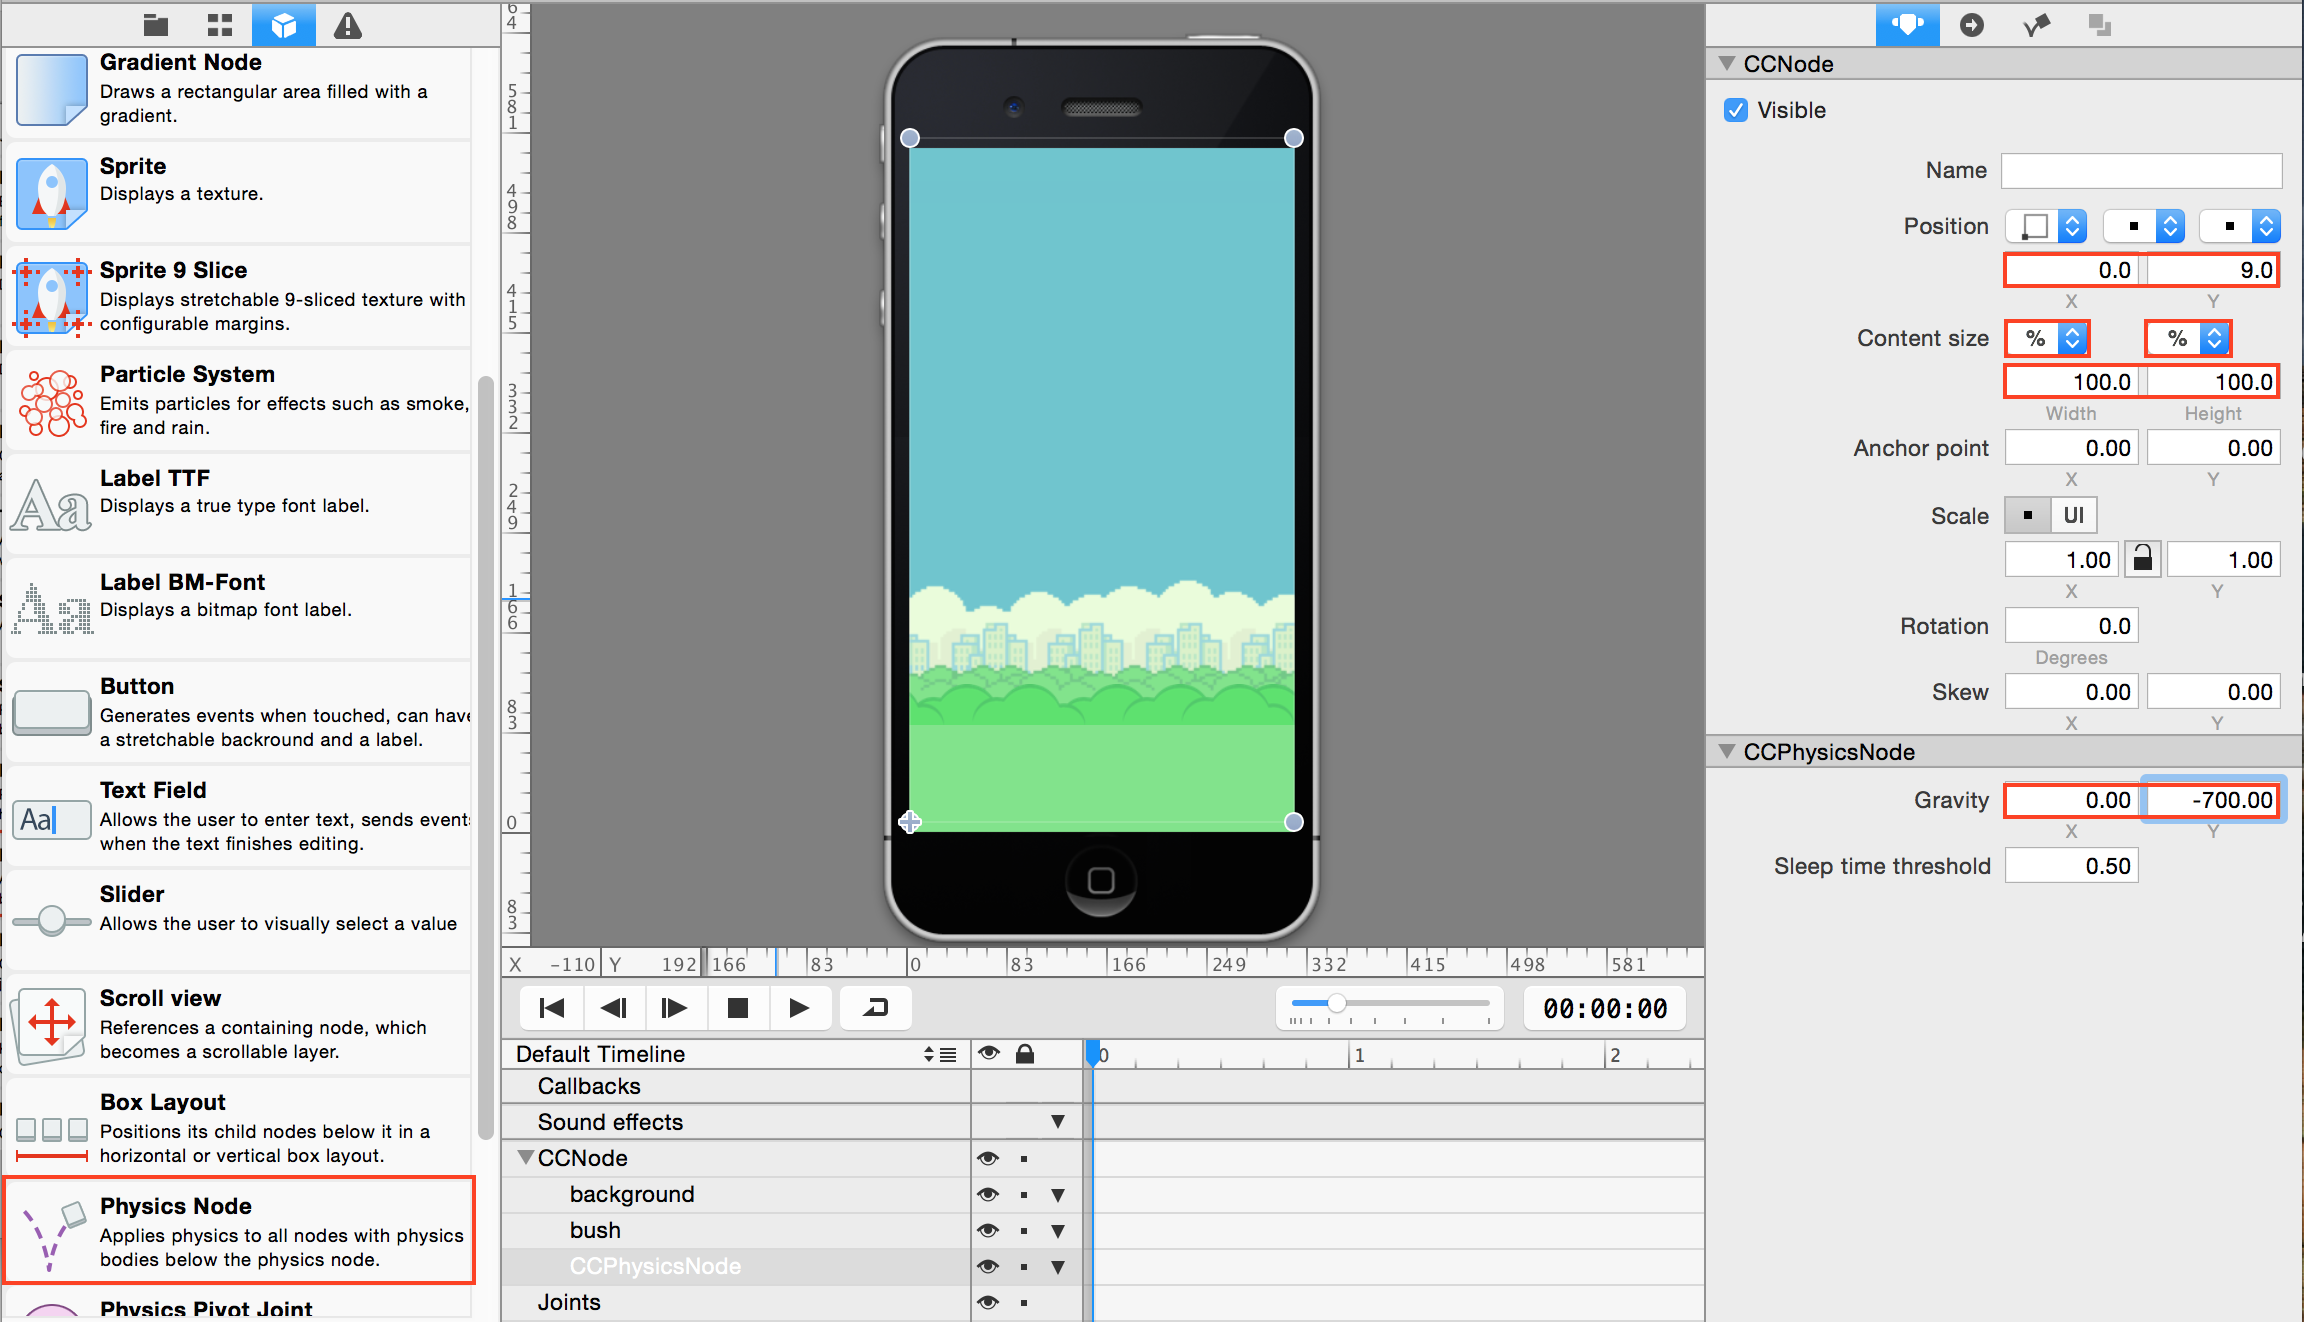
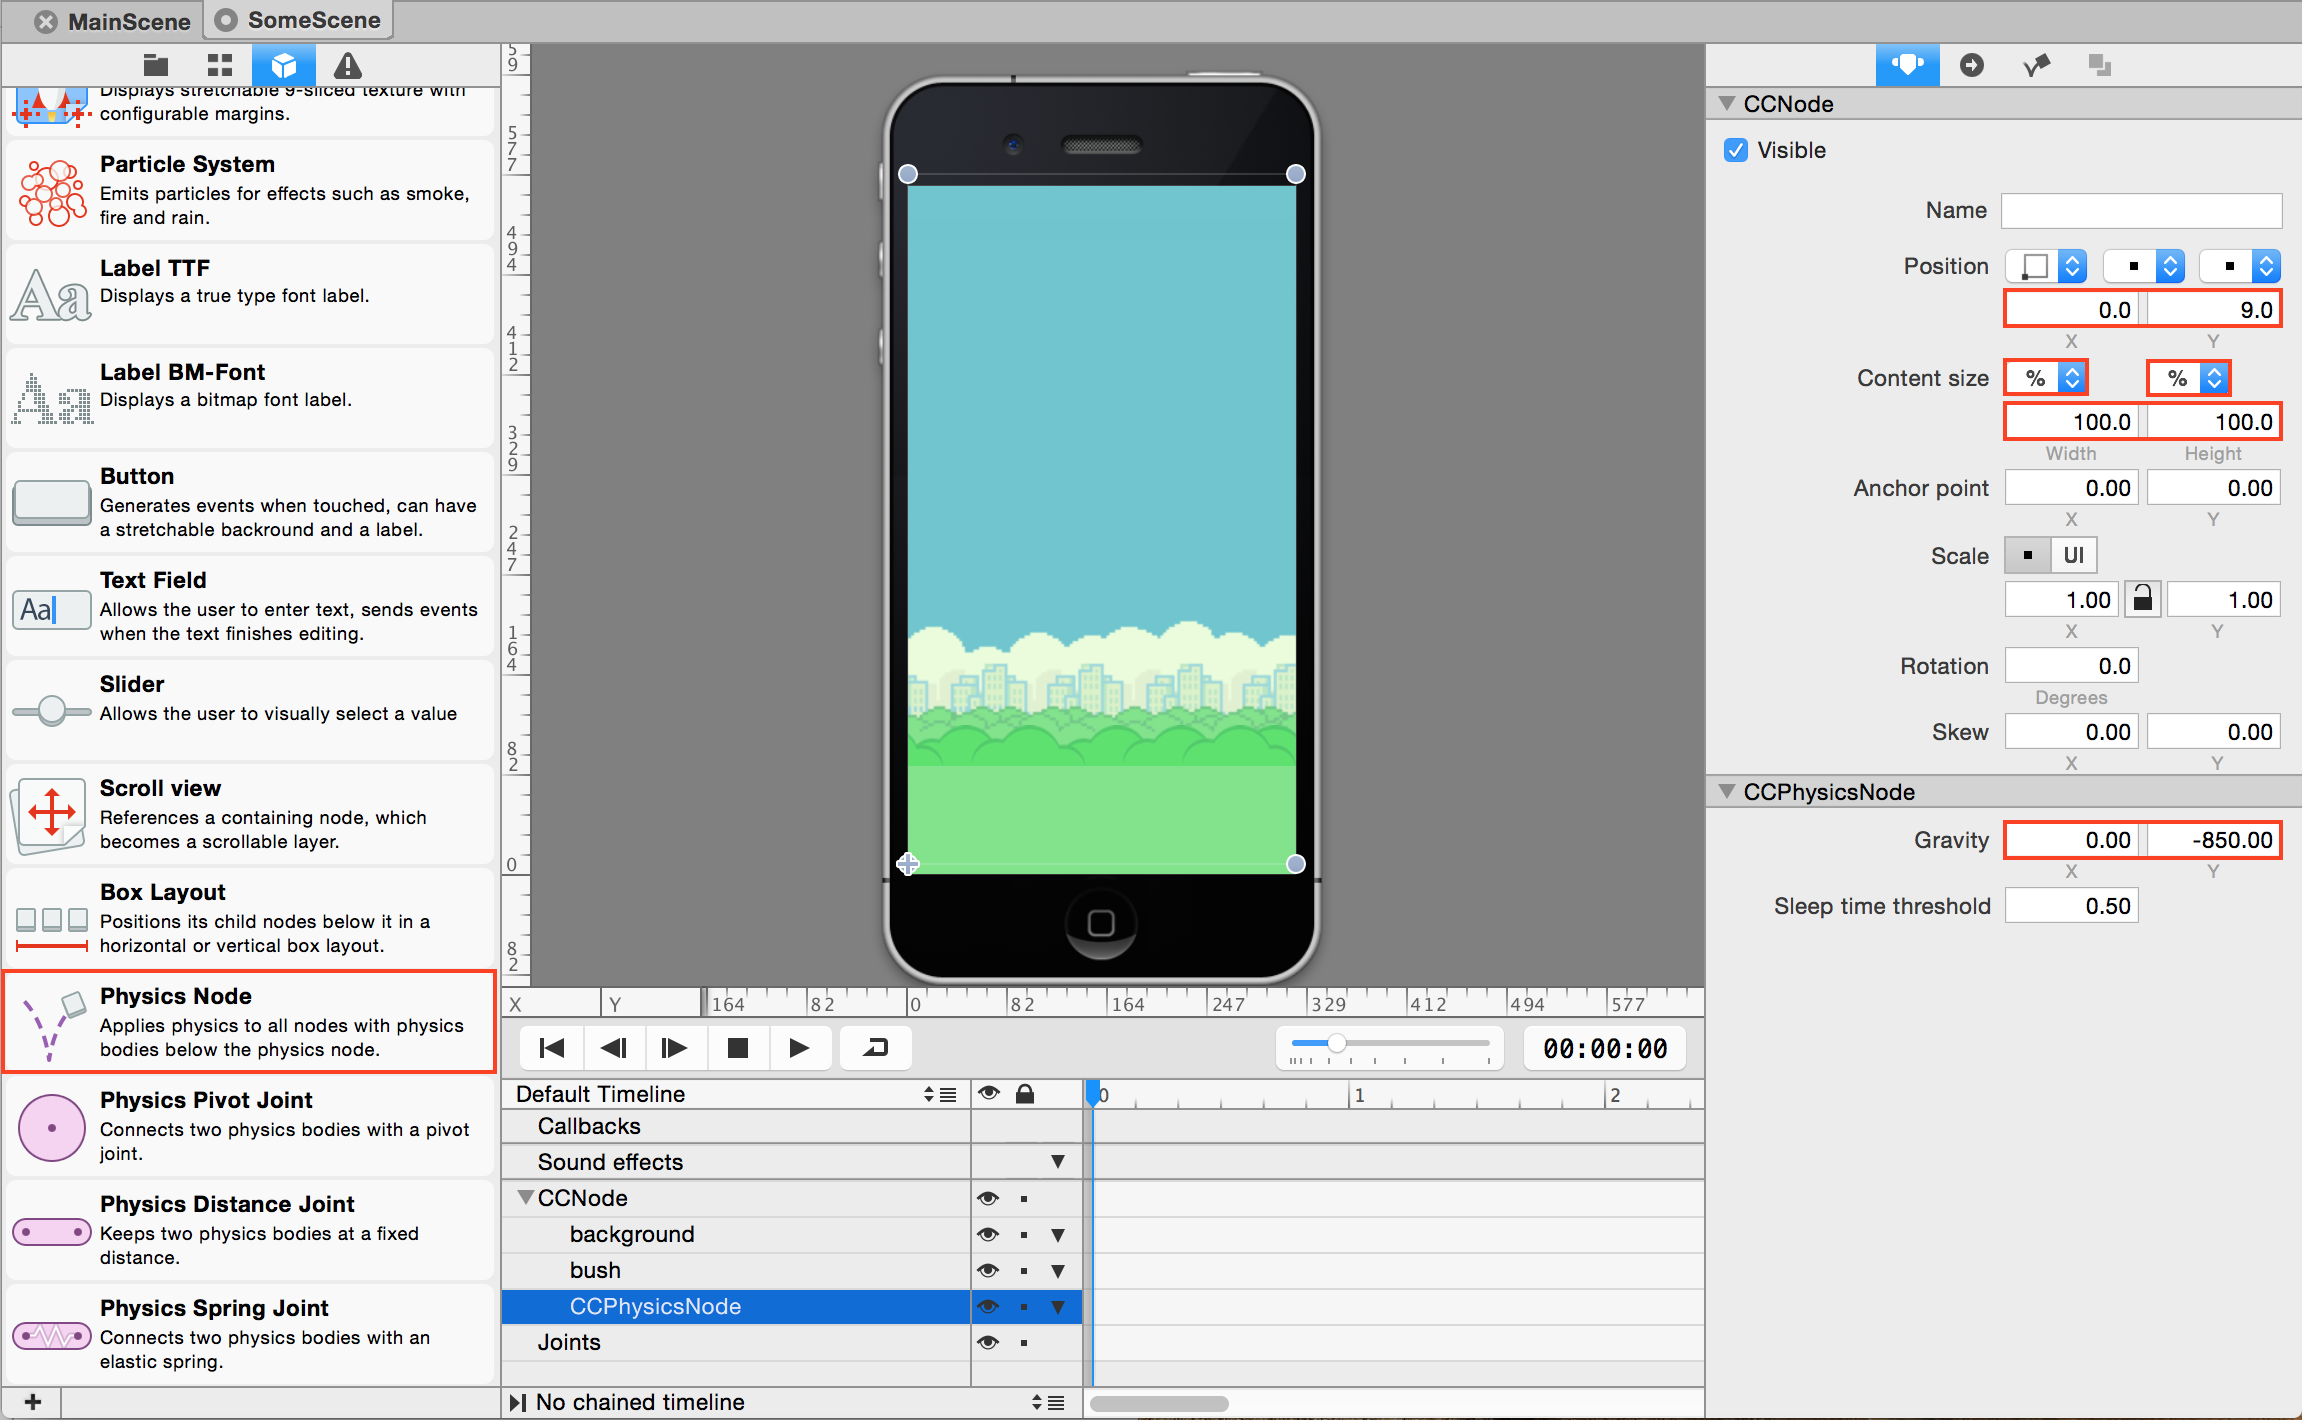
Added part 4 an working on part 5 I believe

diff --git a/P4/part4.md b/P4/part4.md
@@ -1,0 +1,74 @@
+## Part 4: Setting up your MainScene (XCode)
+
+Go to `File > New... > File...` And create a new Cocoa Touch Class. Call this new new class "MainScene" and make it a subclass of GamePlayScene.
+
+</br>
+<img src="part4-mainscene-creation.png" style="width: 75%; height: 75%">
+</br>
+
+Save it in `FlappySwift.spritebuilder/Source`, and then click on the newly selected `MainScene.swift` file. You should see this set of code:
+
+</br>
+<img src="part4-mainscene-initial-look.png" style="width: 75%; height: 75%">
+</br>
+
+This is how you initialize a subclass in Swift. You have the name of the class, a colon, followed by the name of the superclass. Now that the MainScene Class is created, `MainScene.ccb` will now be initialized with this class.
+
+Go ahead and click on the play button in the top right of XCode:
+
+</br>
+<img src="part4-play-button.png" style="width: 75%; height: 75%">
+</br>
+
+This will compile the code and then run it in a separate iPhone simulator. You should see a screen like this, with the ground already being animated:
+
+</br>
+<img src="part4-initial-play.png" style="width: 50%; height: 50%">
+</br>
+
+You can also change your simulator to other iPhone versions in order to test different screen sizes. If you don't have a retina screen and the simulator is too big, you can go to `Window > Scale` to change the size of the simulator.
+
+Now that we've confirmed that the code works, let's initialize some variables. Between the class brackets, add a viewDidLoad() function:
+
+```
+override func didLoadFromCCB() {
+
+}
+```
+
+This function will be called every time a `MainScene` object comes into view. When CCBReader loads all the `.ccb` files from Spritebuilder, it will send a didLoadFromCCB() function call to their `.swift` classes. Treat this like the initialization main function. You will be using this function **a lot** in order to initialize your Cocos2D objects.
+
+The reason why we have the tag "override", there is already a `didLoadFromCCB()` function in `GamePlayScene`. If we're not inheriting the function, we're overriding it.
+
+But, we don't want to completely override the didLoadFromCCB function, we just simply want to add on top of what GamePlayScene already has. Thus, add these lines of code between the function brackets:
+
+```
+override func didLoadFromCCB() {
+    super.didLoadFromCCB()
+}
+```
+
+This is how you call a function from the superclass. This makes it so that every time MainScene comes into view, it will first call didLoadFromCCB() from GamePlayScene before executing the additional initialization code. This way we can add additional code on top of the superclass's function.
+
+Go ahead and now add a few more lines of code:
+
+```
+override func didLoadFromCCB() {
+    super.didLoadFromCCB()
+
+    userInteractionEnabled = true
+    _gamePhysicsNode.collisionDelegate = self
+}
+```
+
+If you want your users to interact with the screen (even a simple touch on a button) you will HAVE to set `userInteractionEnabled` to true. Inversely, if you set it to false, touching the screen will not do anything, even if you have touch, button, or gesture selectors implemented.
+
+As for `_gamePhysicsNode`, notice how `GamePlayScene` implements the `CCPhysicsCollisionDelegate`? A **Delegate** is a tool to allow objects to work on the behalf, or in unison with another object that is not a superclass. In this case, we are setting the `GamePlayScene` to be a delegate for Cocos2D Chipmunk Physics, which allows `GamePlayScene` objects to implement CCPhysics collision functions. GamePlayScene now works on behalf of Cocos2D Physics, and can implement Cocos2D functions that were normally not possible. In other words, you can now program what happens when two objects collide directly into the MainScene class. This is why we set `_gamePhysicsNode.collisionDelegate` to `self`, because `self` represents the current MainScene object.
+
+Your code should look like this in the end:
+
+</br>
+<img src="part4-final-code-look.png" style="width: 75%; height: 75%">
+</br>
+
+When you're done go to the [next step, part 5](../P5/part5.md)

diff --git a/P3/part3.md b/P3/part3.md
@@ -1,4 +1,4 @@
-## Part 3: Setting up your MainScene (XCode)
+## Part 3: Understanding the Code
 
 Open up the `FlappyBirdSwift-Template/FlappySwift.spritebuilder` folder with Finder and double click the `.xcodeproj` file. XCode should open.
 
@@ -6,4 +6,40 @@ Open up the `FlappyBirdSwift-Template/FlappySwift.spritebuilder` folder with Fin
 <img src="part3-xcodeproj.png" style="width: 50%; height: 50%">
 </br>
 
-Welcome to XCode! Here you will write code for the objects that you created  in Spritebuilder
+Welcome to XCode! Here you will write code for the objects that you created in Spritebuilder. Here is where the explanations get lengthy so brace yourself.
+
+In the left margin of XCode you'll see a whole bunch of files that we already have programmed for you.
+
+</br>
+<img src="part3-left-margin.png" style="width: 50%; height: 50%">
+</br>
+
+Go ahead and take a brief look at the files and look over the code. **Make sure that when you're going through this tutorial to read and attempt to understand the code**, especially the code that we already wrote for you. This tutorial won't work unless you take the time to read the code and try to use it in your own applications.
+
+#### Understanding Custom Class connections
+In `Character.swift`, we have the code for FlappyBird, or whatever knockoff you want to make. If you take a look at `Character.ccb`, you'll notice that the root CCNode has a custom class set to "Character", and thus any `Character.ccb` object will be initialized with the code from `Character.swift`.
+
+In `Obstacles.swift` we have class code for the obstacles/pipes and their initializations. `Obstacles.ccb` in Spritebuilder has a custom class set to "Obstacles", and therefore is initialized with code from `Obstacles.swift`.
+
+In `Goal.swift` we have the initialization code for the `CCNode` that handles collisions for successfully getting between pipes. If you take a look at `Obstacles.ccb` in Spritebuilder, you'll notice that there is a child `CCNode` has a custom class called "Goal". This means that the CCNode in `Obstacles.ccb` is initialized with the code in `Goal.swift`.
+
+**You see a pattern here? Objects that you create in Spritebuilder are initialized with their respective Custom classes**. Having a custom class allows you to directly manipulate objects in Spritebuilder in an organized, OOP matter.
+
+#### Understanding Document Root connections
+Also take a look at `GamePlayScene.swift`. This class is mainly just for animations, and the moving of the scene. In addition if you take a look at the variable initialization area:
+
+</br>
+<img src="part3-gameplayscene-linking.png" style="width: 75%; height: 75%">
+</br>
+
+You'll notice that it declares three variables with `_gamePhysicsNode`, `_ground1`, and `_ground2`. Remember when we wrote document roots for our CCPhysicsNode and ground objects in Spritebuilder? This means that `_gamePhysicsNode`, `_ground1`, and `_ground2` will all be initialized with those objects when the GamePlayScene code is run. Manipulating these variables will manipulate the document root linked objects in the Scene in real time. For example, if I wrote code in XCode to change the position of `_ground1`:
+
+```
+//hypothetical do not copy into XCode
+_ground1.position = ccp(0, 0)
+```
+The ground1 object in the scene will change positions to `0,0` in real time. There is no need to write additional initialization code because the object is already initialized in `MainScene.ccb` via Spritebuilder
+
+As for the `hero` variable, notice that it doesn't have an underscore "\_" before it. While the underscore doesn't do anything special for the code, it's personal convention to mark only objects linked through Spritebuilder with "\_". `hero` will be initialized separately in code and We'll show you how that's done in just a moment.
+
+When you're done understanding go to the [next step, part 4](../P4/part4.md)

diff --git a/P5/part5.md b/P5/part5.md
@@ -1,0 +1,29 @@
+## Part 5: Setting up your FlappyBird (Part 1: Initialization)
+
+Click on `Character.swift`. This is the class for the `Character.ccb`, or in other words, Flappy Bird. We're going to manually add Flappy Bird into the scene instead of using Spritebuilder, but before we do so we should write some initializations.
+
+Let's set the initial position of the bird. By default, when the Flappy bird is initialized, it's position will be 0,0. We want the bird to be in the middle of the screen when MainScene starts, so in the class, add this function with this particular line of code inside:
+
+```
+func didLoadFromCCB() {
+    self.position = CGPoint(x:115, y:250)
+}
+```
+
+This will make it so that whenever you add a Flappy Bird object to the screen, it will be start at the position (115, 250) relative to the bottom left corner of the screen.
+
+Now let's actually initialize and add the Flappy Bird. Click on `MainScene.swift` and in `didLoadFromCCB()`, add these lines of code:
+
+
+
+<!--
+This time, write some code yourself: Write the header and brackets for one non-overriding function called `flap` with no parameters.
+
+In flap, we want to make it so that every time we call the flap method, that the flappy bird jumps. Thus, let's apply some force to the bird. In between the brackets of flap(), add these lines of code:
+
+```
+self.physicsBody.applyImpulse(ccp(0, 700))
+self.physicsBody.applyAngularImpulse(5000)
+```
+
+`ccp()` is the same thing as `CGPointMake()`. It's a shorter way of initializing a CGPoint. These first line applies a "jump" force to the bird. The second line applies an angular force that makes the bird point upwards. -->

diff --git a/P1/part1.md b/P1/part1.md
@@ -8,7 +8,7 @@ Now we'll get into real game development. Use finder and open up your `.ccbproj`
 
 We want to create a new scene for our game. This spritebuilder scene will contain the assets and code connections for our actual code in XCode and will represent what we will see when we start up the application.
 
-While in Spritebuilder, go to `File > New > File...` and create a .ccb called `MainScene.ccb` selecting the `Scene` option.
+While in Spritebuilder, go to `File > New > File...` and create a `.ccb` called `MainScene.ccb` selecting the `Scene` option.
 
 </br>
 <img src="part1-create.png" style="width: 75%; height: 75%">
@@ -20,7 +20,7 @@ You should see a new iphone looking scene in the center of the screen.
 <img src="part1-scene.png" style="width: 50%; height: 50%">
 </br>
 
-Select `CCNode` in the area below the iphone screen underneath "Sound effects" This is the hierarchy area for all Cocos2D objects you add in including assets, physics objects, and other .ccb files. In this case, when you make a .ccb scene, the scene is represented by a special `CCNode` root.
+Select `CCNode` in the area below the Pphone screen underneath "Sound effects" This is the hierarchy area for all Cocos2D objects you add in including assets, physics objects, and other `.ccb` files. In this case, when you make a `.ccb` scene, the scene is represented by a special `CCNode` root.
 
 </br>
 <img src="part1-scene-ccnode.png" style="width: 50%; height: 50%">

diff --git a/README.md b/README.md
@@ -12,10 +12,11 @@ You will learn:
 ##### [Part 0: Setting up your Github](P0/part0.md)
 ##### [Part 1: Setting up the MainScene (Spritebuilder Part 1)](P1/part1.md)
 ##### [Part 2: Setting up the MainScene (Spritebuilder Part 2)](P2/part2.md)
-##### [Part 3: Setting up your MainScene (XCode)](P3/part3.md)
-##### [Part 4: Github Break!](P4/part4.md)
-##### [Part 5: Setting up your FlappyBird](P5/part5.md)
-##### [Part 6: Setting up your Obstacles](P6/part6.md)
-##### [Part 7: Setting up the Collisions (Spritebuilder)](P7/part7.md)
-##### [Part 8: Setting up the Collisions (XCode)](P8/part8.md)
-##### [Part 9: Tweaking the code](P9/part9.md)
+##### [Part 3: Understanding the Code](P3/part3.md)
+##### [Part 4: Setting up your MainScene (XCode)](P4/part4.md)
+##### [Part 5: Setting up your FlappyBird (Part 1: Initialization)](P5/part5.md)
+##### [Part 6: Setting up your FlappyBird (Part 2: Touch Began)](P6/part6.md)
+##### [Part 7: Setting up your Obstacles](P7/part7.md)
+##### [Part 8: Setting up the Collisions (Spritebuilder)](P8/part8.md)
+##### [Part 9: Setting up the Collisions (XCode)](P9/part9.md)
+##### [Part 10: Pushing your changes to Github](P10/part10.md)

diff --git a/P2/part2.md b/P2/part2.md
@@ -2,7 +2,7 @@
 
 Next you'll add the ground. We're going to add two ground sprites separately so that we can animate the ground to move. But before we can add ground sprites, we need to create a `CCPhysicsNode`. Since in the end, we want the ground to be a physical object that the bird collides with, we need physics container for all of our ground sprites, as well for our future physics objects as well, such as the obstacles and the Flappy Bird object.
 
-From the Cocos2D object section in the left margin, drag a Physics Node object beneath the bush. Set it's position to `0, 106`; content size type to `%, %`; and gravity to `0, -700`.
+From the Cocos2D object section in the left margin, drag a Physics Node object beneath the bush. Set it's position to `0, 106`; content size type to `%, %`; and gravity to `0, -850`.
 
 </br>
 <img src="part2-ccphysicsnode-1.png" style="width: 75%; height: 75%">
